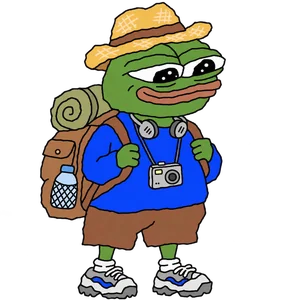
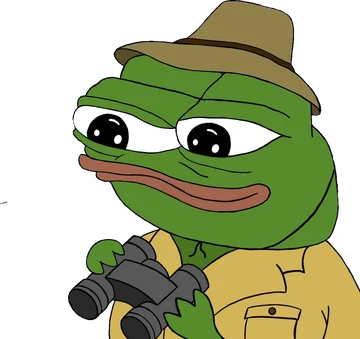
The PEP frog crew: new Where's Pepe characters, chat emotes, screensaver
- Where's Pepe robot: the old traveller poses are replaced by seven characters (balloons, juice box,
  brb from behind, chonky, comfy, explorer with binoculars, backpack); the explorer stands on the
  bottom edge, the balloons get more height
- Where's Pepe pictures and icons (game intro, ad, gazette, folder) show the explorer
- the seven characters are chat emotes (PondOS LAN Party and PEP Games) and bounce in the screensaver

Claude-Session: https://claude.ai/code/session_01JotvcxFDwTkPbjxt4AqZ4V

diff --git a/docs/meme/meme.js b/docs/meme/meme.js
@@ -860,9 +860,10 @@
   function saver(force) {
     if (saverEl || (!force && (REDUCE || document.hidden || maxW || document.querySelector('dialog[open]')))) return;
     // a random frog from the meme collection bounces around, like the old DVD logo
-    var FROGS = ['big-eyes', 'believe', 'chonk', 'cowboy', 'detective', 'diamond', 'gibup', 'farmer', 'born-to-fren', 'brain', 'gif-034-still', 'gif-071-still', 'gif-045-still', 'gif-085-still'];
+    var FROGS = ['big-eyes', 'believe', 'chonk', 'cowboy', 'detective', 'diamond', 'gibup', 'farmer', 'born-to-fren', 'brain', 'gif-034-still', 'gif-071-still', 'gif-045-still', 'gif-085-still',
+      'chars/balloons', 'chars/juicebox', 'chars/brb', 'chars/chonky', 'chars/comfy', 'chars/explorer', 'chars/backpack'];
     var pick = FROGS[Math.floor(Math.random() * FROGS.length)];
-    saverEl = el('div', { class: 'saver', 'aria-hidden': 'true' }, '<img class="sv-frog" src="img/' + pick + '.webp" alt=""><p>PondOS is resting. Move the mouse, fren.</p>');
+    saverEl = el('div', { class: 'saver', 'aria-hidden': 'true' }, '<img class="sv-frog' + (pick.indexOf('chars/') === 0 ? ' cut' : '') + '" src="img/' + pick + '.webp" alt=""><p>PondOS is resting. Move the mouse, fren.</p>');
     document.body.appendChild(saverEl);
     var coin = saverEl.querySelector('.sv-frog'), x = 40, y = 40, dx = 2.2, dy = 1.7, raf;
     var step = function () {
@@ -1738,14 +1739,14 @@
       var wireHost = function () { var b = main.querySelector('.wp-host'); if (b) b.addEventListener('click', hostTools); };
       var closed = function () {
         countdownOnly();
-        main.innerHTML = '<div class="wp-intro"><img src="img/wp-pepe.webp" alt="" width="180" height="300"><div><h3>Pepe is still packing.</h3><p>No photo today yet. Come back soon!</p>' +
+        main.innerHTML = '<div class="wp-intro"><img src="img/wp-pepe.webp" alt="Pepe the explorer with binoculars" width="180" height="169"><div><h3>Pepe is still packing.</h3><p>No photo today yet. Come back soon!</p>' +
           '<div class="app-row"><button type="button" class="app-btn wp-readme">README.TXT</button>' + hostBtn() + '</div><div class="wp-board"></div></div></div>';
         main.querySelector('.wp-readme').addEventListener('click', wpReadme); wireHost(); board(main.querySelector('.wp-board'));
       };
       var intro = function () {
         countdownOnly();
         var me = whoAmI();
-        main.innerHTML = '<div class="wp-intro"><img src="img/wp-pepe.webp" alt="" width="180" height="300"><div><h3>Where\'s Pepe? #' + T.num + '</h3>' +
+        main.innerHTML = '<div class="wp-intro"><img src="img/wp-pepe.webp" alt="Pepe the explorer with binoculars" width="180" height="169"><div><h3>Where\'s Pepe? #' + T.num + '</h3>' +
           '<p>Pepe sent a new photo. Where is he? You have <b>2 minutes</b> and <b>one guess</b>. The faster, the more points: 5000 in the first minute, then the continent and the flag show up and the maximum drops.</p>' +
           '<p class="wp-small">Leaving the tab during the guess: one warning, then −1000 each time.</p>' +
           (T.signed_in ? '<div class="app-row"><button type="button" class="app-btn wp-start go">▶ Start</button><button type="button" class="app-btn wp-readme">README.TXT</button>' + hostBtn() + '</div>' +
@@ -2053,7 +2054,7 @@
         '<p><b>Got an idea, a wish or a bug?</b> Tell us in the LAN Party chat. Every message is read, and the best ideas get built.</p>' +
         '<button type="button" class="app-btn gz-lan">Open the LAN Party chat →</button></section>' +
         '<section class="gz-wp"><p class="gz-kick">Extra! Extra!</p><h4>Pepe packs his backpack: Where\'s Pepe? starts soon</h4>' +
-        '<div class="gz-wpbox"><img src="img/wp-pepe.webp" alt="Pepe the traveller with a backpack and a camera" width="110" height="183"><div>' +
+        '<div class="gz-wpbox"><img src="img/wp-pepe.webp" alt="Pepe the explorer with binoculars" width="110" height="104"><div>' +
         '<p>Every day Pepe sends one photo from somewhere in the world. You get 2 minutes and one pin on the map. The closer you get, the more points: up to 5000 a day.</p>' +
         '<p><b>And free PEP for everyone!</b> 1 PEP for every 50 points, paid by the host every week. Discord players get up to 100 PEP a day, guests up to 50.</p>' +
         '<p class="gz-count"></p></div></div>' +
@@ -2307,7 +2308,7 @@
   // ---------- LAN Party: the PEP Games lobby chat in a window ----------
   // Same chat as PEP Games (Supabase gry_lobby_chat / gry_lobby_say). Reading is open to everyone; writing
   // needs a PEP Games sign-in (Discord, or a guest nickname), which lives in this browser's storage.
-  var EMO = ' gmfren heart shh wen facts hmm sleepy bigbrain peek ready waiting pep cheer torch hug chair crayon smoke scream serious hurry news loading crowd ';
+  var EMO = ' gmfren heart shh wen facts hmm sleepy bigbrain balloons juicebox brb chonky comfy explorer backpack peek ready waiting pep cheer torch hug chair crayon smoke scream serious hurry news loading crowd ';
   function anySession() {
     try { var s = JSON.parse(localStorage.getItem(SB_STORE) || 'null'); if (s && s.access_token && s.expires_at * 1000 > Date.now() + 30000) return s; } catch (e) {}
     return null;

diff --git a/docs/meme/mining.html b/docs/meme/mining.html
@@ -10,7 +10,7 @@
 <link rel="preconnect" href="https://fonts.googleapis.com">
 <link rel="preconnect" href="https://fonts.gstatic.com" crossorigin>
 <link rel="stylesheet" href="https://fonts.googleapis.com/css2?family=Figtree:ital,wght@0,400;0,600;0,700;1,400&family=Space+Mono:wght@400;700&family=VT323&display=swap">
-<link rel="stylesheet" href="meme.css?v=20261103find">
+<link rel="stylesheet" href="meme.css?v=20261103chars">
 <style>
 .coin-chips { list-style: none; padding: 0; display: flex; flex-wrap: wrap; gap: 10px; }
 .coin-chips li { display: inline-flex; align-items: center; gap: 8px; padding: 6px 12px 6px 6px; border: 2.5px solid var(--line); border-radius: 999px; background: var(--card); font-weight: 700; box-shadow: 3px 3px 0 var(--hard); }
@@ -213,7 +213,7 @@
 
 <footer class="foot"></footer>
 <script src="../prices.js?v=20261031data1"></script>
-<script src="meme.js?v=20261103find"></script>
+<script src="meme.js?v=20261103chars"></script>
 <script>
 (function () {
   // same arithmetic as the serious page (mining-calc.js): share of the network hashrate x blocks a day x 10,000 PEP, minus the pool fee

diff --git a/docs/meme/which-pepecoin.html b/docs/meme/which-pepecoin.html
@@ -10,7 +10,7 @@
 <link rel="preconnect" href="https://fonts.googleapis.com">
 <link rel="preconnect" href="https://fonts.gstatic.com" crossorigin>
 <link rel="stylesheet" href="https://fonts.googleapis.com/css2?family=Figtree:ital,wght@0,400;0,600;0,700;1,400&family=Space+Mono:wght@400;700&family=VT323&display=swap">
-<link rel="stylesheet" href="meme.css?v=20261103find">
+<link rel="stylesheet" href="meme.css?v=20261103chars">
 <style>
 [hidden] { display: none !important; }
 code { font: 700 0.92em/1.3 var(--f-mono); background: var(--paper); border: 1.5px solid color-mix(in srgb, var(--line) 30%, transparent); border-radius: 6px; padding: 1px 5px; overflow-wrap: anywhere; }
@@ -223,7 +223,7 @@ code { font: 700 0.92em/1.3 var(--f-mono); background: var(--paper); border: 1.5
 
 <footer class="foot"></footer>
 <script src="../prices.js?v=20261031data1"></script>
-<script src="meme.js?v=20261103find"></script>
+<script src="meme.js?v=20261103chars"></script>
 <script>
 (function () {
   // copy buttons for the contract addresses

diff --git a/docs/meme/calculator.html b/docs/meme/calculator.html
@@ -10,7 +10,7 @@
 <link rel="preconnect" href="https://fonts.googleapis.com">
 <link rel="preconnect" href="https://fonts.gstatic.com" crossorigin>
 <link rel="stylesheet" href="https://fonts.googleapis.com/css2?family=Figtree:ital,wght@0,400;0,600;0,700;1,400&family=Space+Mono:wght@400;700&family=VT323&display=swap">
-<link rel="stylesheet" href="meme.css?v=20261103find">
+<link rel="stylesheet" href="meme.css?v=20261103chars">
 <script>try{var th=localStorage.getItem('phw-theme');if(th==='light'||th==='dark')document.documentElement.setAttribute('data-theme',th)}catch(e){}</script>
 <style>
 [hidden] { display: none !important; }
@@ -243,7 +243,7 @@ th.plain { font: 700 0.95rem var(--f-body); text-transform: none; letter-spacing
 
 <footer class="foot"></footer>
 <script src="../prices.js?v=20261031data1"></script>
-<script src="meme.js?v=20261103find"></script>
+<script src="meme.js?v=20261103chars"></script>
 <script src="../live.js?v=20261012d" defer></script>
 <script>
 (function () {

diff --git a/docs/meme/price.html b/docs/meme/price.html
@@ -10,7 +10,7 @@
 <link rel="preconnect" href="https://fonts.googleapis.com">
 <link rel="preconnect" href="https://fonts.gstatic.com" crossorigin>
 <link rel="stylesheet" href="https://fonts.googleapis.com/css2?family=Figtree:ital,wght@0,400;0,600;0,700;1,400&family=Space+Mono:wght@400;700&family=VT323&display=swap">
-<link rel="stylesheet" href="meme.css?v=20261103find">
+<link rel="stylesheet" href="meme.css?v=20261103chars">
 <script>try{var th=localStorage.getItem('phw-theme');if(th==='light'||th==='dark')document.documentElement.setAttribute('data-theme',th)}catch(e){}</script>
 <style>
 [hidden] { display: none !important; }
@@ -283,7 +283,7 @@ img.pow-logo { background: #fff; }
 
 <footer class="foot"></footer>
 <script src="../prices.js?v=20261031data1"></script>
-<script src="meme.js?v=20261103find"></script>
+<script src="meme.js?v=20261103chars"></script>
 <script src="../live.js?v=20261012d" defer></script>
 <script src="../price.js?v=20261031data1" defer></script>
 <script>

diff --git a/docs/meme/compare.html b/docs/meme/compare.html
@@ -10,7 +10,7 @@
 <link rel="preconnect" href="https://fonts.googleapis.com">
 <link rel="preconnect" href="https://fonts.gstatic.com" crossorigin>
 <link rel="stylesheet" href="https://fonts.googleapis.com/css2?family=Figtree:ital,wght@0,400;0,600;0,700;1,400&family=Space+Mono:wght@400;700&family=VT323&display=swap">
-<link rel="stylesheet" href="meme.css?v=20261103find">
+<link rel="stylesheet" href="meme.css?v=20261103chars">
 <style>
 [hidden] { display: none !important; }
 code { font: 700 0.95em/1.3 var(--f-mono); background: var(--paper); border: 1.5px solid color-mix(in srgb, var(--line) 30%, transparent); border-radius: 6px; padding: 1px 6px; }
@@ -267,7 +267,7 @@ code { font: 700 0.95em/1.3 var(--f-mono); background: var(--paper); border: 1.5
 
 <footer class="foot"></footer>
 <script src="../prices.js?v=20261031data1"></script>
-<script src="meme.js?v=20261103find"></script>
+<script src="meme.js?v=20261103chars"></script>
 <script>
 (function () {
   'use strict';

diff --git a/docs/meme/index.html b/docs/meme/index.html
@@ -22,7 +22,7 @@
 <link rel="preconnect" href="https://fonts.googleapis.com">
 <link rel="preconnect" href="https://fonts.gstatic.com" crossorigin>
 <link rel="stylesheet" href="https://fonts.googleapis.com/css2?family=Figtree:ital,wght@0,400;0,600;0,700;1,400&family=Space+Mono:wght@400;700&family=VT323&display=swap">
-<link rel="stylesheet" href="meme.css?v=20261103find">
+<link rel="stylesheet" href="meme.css?v=20261103chars">
 <script>try{var th=localStorage.getItem('phw-theme');if(th==='light'||th==='dark')document.documentElement.setAttribute('data-theme',th)}catch(e){}</script>
 <script data-goatcounter="https://pepecoinhub.goatcounter.com/count" async src="https://gc.zgo.at/count.js"></script>
 </head>
@@ -296,7 +296,7 @@
 
 <footer class="foot"></footer>
 <script src="../prices.js?v=20261031data1"></script>
-<script src="meme.js?v=20261103find"></script>
+<script src="meme.js?v=20261103chars"></script>
 <script>
 (function () {
   var M = window.Meme, f = M.fmt;

diff --git a/docs/meme/buy.html b/docs/meme/buy.html
@@ -10,7 +10,7 @@
 <link rel="preconnect" href="https://fonts.googleapis.com">
 <link rel="preconnect" href="https://fonts.gstatic.com" crossorigin>
 <link rel="stylesheet" href="https://fonts.googleapis.com/css2?family=Figtree:ital,wght@0,400;0,600;0,700;1,400&family=Space+Mono:wght@400;700&family=VT323&display=swap">
-<link rel="stylesheet" href="meme.css?v=20261103find">
+<link rel="stylesheet" href="meme.css?v=20261103chars">
 <style>
 .svc td:first-child a { font-weight: 800; }
 .kind { display: inline-block; font: 700 0.72rem/1.6 var(--f-mono); text-transform: uppercase; letter-spacing: 0.04em; padding: 0 7px; border: 2px solid var(--line); border-radius: 6px; background: var(--paper); white-space: nowrap; }
@@ -132,6 +132,6 @@
 
 <footer class="foot"></footer>
 <script src="../prices.js?v=20261031data1"></script>
-<script src="meme.js?v=20261103find"></script>
+<script src="meme.js?v=20261103chars"></script>
 </body>
 </html>

diff --git a/docs/meme/supply.html b/docs/meme/supply.html
@@ -10,7 +10,7 @@
 <link rel="preconnect" href="https://fonts.googleapis.com">
 <link rel="preconnect" href="https://fonts.gstatic.com" crossorigin>
 <link rel="stylesheet" href="https://fonts.googleapis.com/css2?family=Figtree:ital,wght@0,400;0,600;0,700;1,400&family=Space+Mono:wght@400;700&family=VT323&display=swap">
-<link rel="stylesheet" href="meme.css?v=20261103find">
+<link rel="stylesheet" href="meme.css?v=20261103chars">
 <script>try{var th=localStorage.getItem('phw-theme');if(th==='light'||th==='dark')document.documentElement.setAttribute('data-theme',th)}catch(e){}</script>
 <style>
 [hidden] { display: none !important; }
@@ -279,7 +279,7 @@
 
 <footer class="foot"></footer>
 <script src="../prices.js?v=20261031data1"></script>
-<script src="meme.js?v=20261103find"></script>
+<script src="meme.js?v=20261103chars"></script>
 <script src="../live.js?v=20261012d" defer></script>
 <script>
 (function () {

diff --git a/docs/meme/glossary.html b/docs/meme/glossary.html
@@ -10,7 +10,7 @@
 <link rel="preconnect" href="https://fonts.googleapis.com">
 <link rel="preconnect" href="https://fonts.gstatic.com" crossorigin>
 <link rel="stylesheet" href="https://fonts.googleapis.com/css2?family=Figtree:ital,wght@0,400;0,600;0,700;1,400&family=Space+Mono:wght@400;700&family=VT323&display=swap">
-<link rel="stylesheet" href="meme.css?v=20261103find">
+<link rel="stylesheet" href="meme.css?v=20261103chars">
 <style>
 .terms { display: grid; grid-template-columns: repeat(auto-fill, minmax(min(100%, 320px), 1fr)); gap: 20px; }
 .term { display: grid; gap: 8px; align-content: start; padding: 18px 20px; scroll-margin-top: 100px; min-width: 0; }
@@ -102,6 +102,6 @@
 
 <footer class="foot"></footer>
 <script src="../prices.js?v=20261031data1"></script>
-<script src="meme.js?v=20261103find"></script>
+<script src="meme.js?v=20261103chars"></script>
 </body>
 </html>

diff --git a/docs/meme/network.html b/docs/meme/network.html
@@ -10,7 +10,7 @@
 <link rel="preconnect" href="https://fonts.googleapis.com">
 <link rel="preconnect" href="https://fonts.gstatic.com" crossorigin>
 <link rel="stylesheet" href="https://fonts.googleapis.com/css2?family=Figtree:ital,wght@0,400;0,600;0,700;1,400&family=Space+Mono:wght@400;700&family=VT323&display=swap">
-<link rel="stylesheet" href="meme.css?v=20261103find">
+<link rel="stylesheet" href="meme.css?v=20261103chars">
 <script>try{var th=localStorage.getItem('phw-theme');if(th==='light'||th==='dark')document.documentElement.setAttribute('data-theme',th)}catch(e){}</script>
 <style>
 [hidden] { display: none !important; }
@@ -155,7 +155,7 @@
 
 <footer class="foot"></footer>
 <script src="../prices.js?v=20261031data1"></script>
-<script src="meme.js?v=20261103find"></script>
+<script src="meme.js?v=20261103chars"></script>
 <script>
 (function () {
   'use strict';

diff --git a/docs/meme/wallets.html b/docs/meme/wallets.html
@@ -10,7 +10,7 @@
 <link rel="preconnect" href="https://fonts.googleapis.com">
 <link rel="preconnect" href="https://fonts.gstatic.com" crossorigin>
 <link rel="stylesheet" href="https://fonts.googleapis.com/css2?family=Figtree:ital,wght@0,400;0,600;0,700;1,400&family=Space+Mono:wght@400;700&family=VT323&display=swap">
-<link rel="stylesheet" href="meme.css?v=20261103find">
+<link rel="stylesheet" href="meme.css?v=20261103chars">
 <style>
 .wallets { display: grid; grid-template-columns: repeat(auto-fill, minmax(min(100%, 260px), 1fr)); gap: 20px; }
 .wallet { display: grid; gap: 8px; align-content: start; padding: 18px; min-width: 0; }
@@ -132,6 +132,6 @@
 
 <footer class="foot"></footer>
 <script src="../prices.js?v=20261031data1"></script>
-<script src="meme.js?v=20261103find"></script>
+<script src="meme.js?v=20261103chars"></script>
 </body>
 </html>
